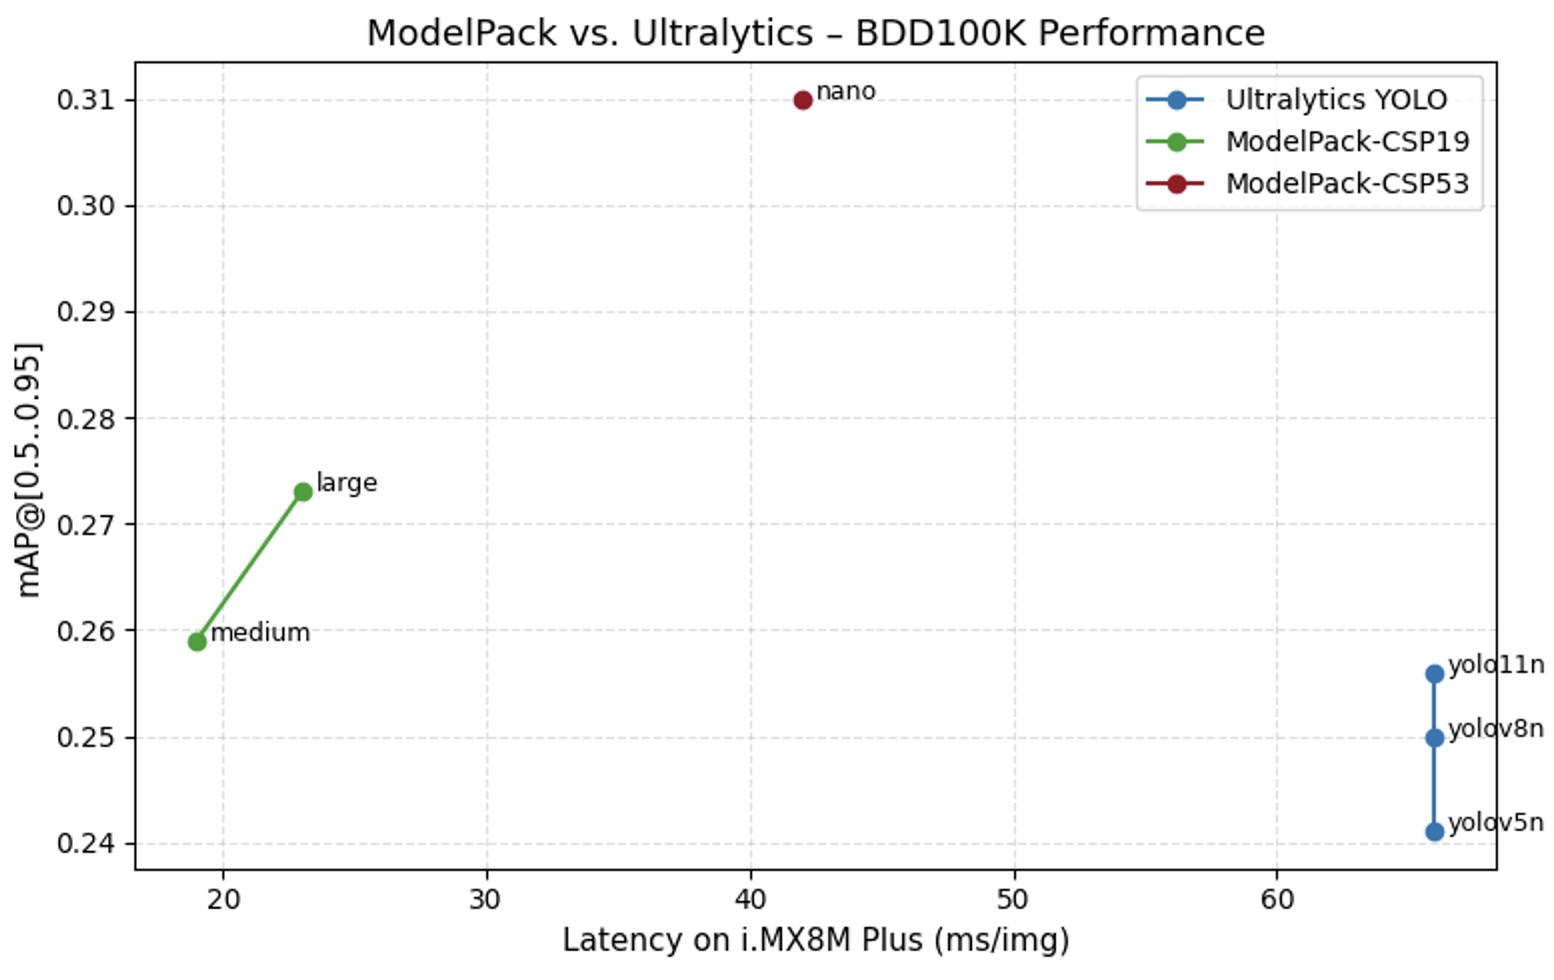
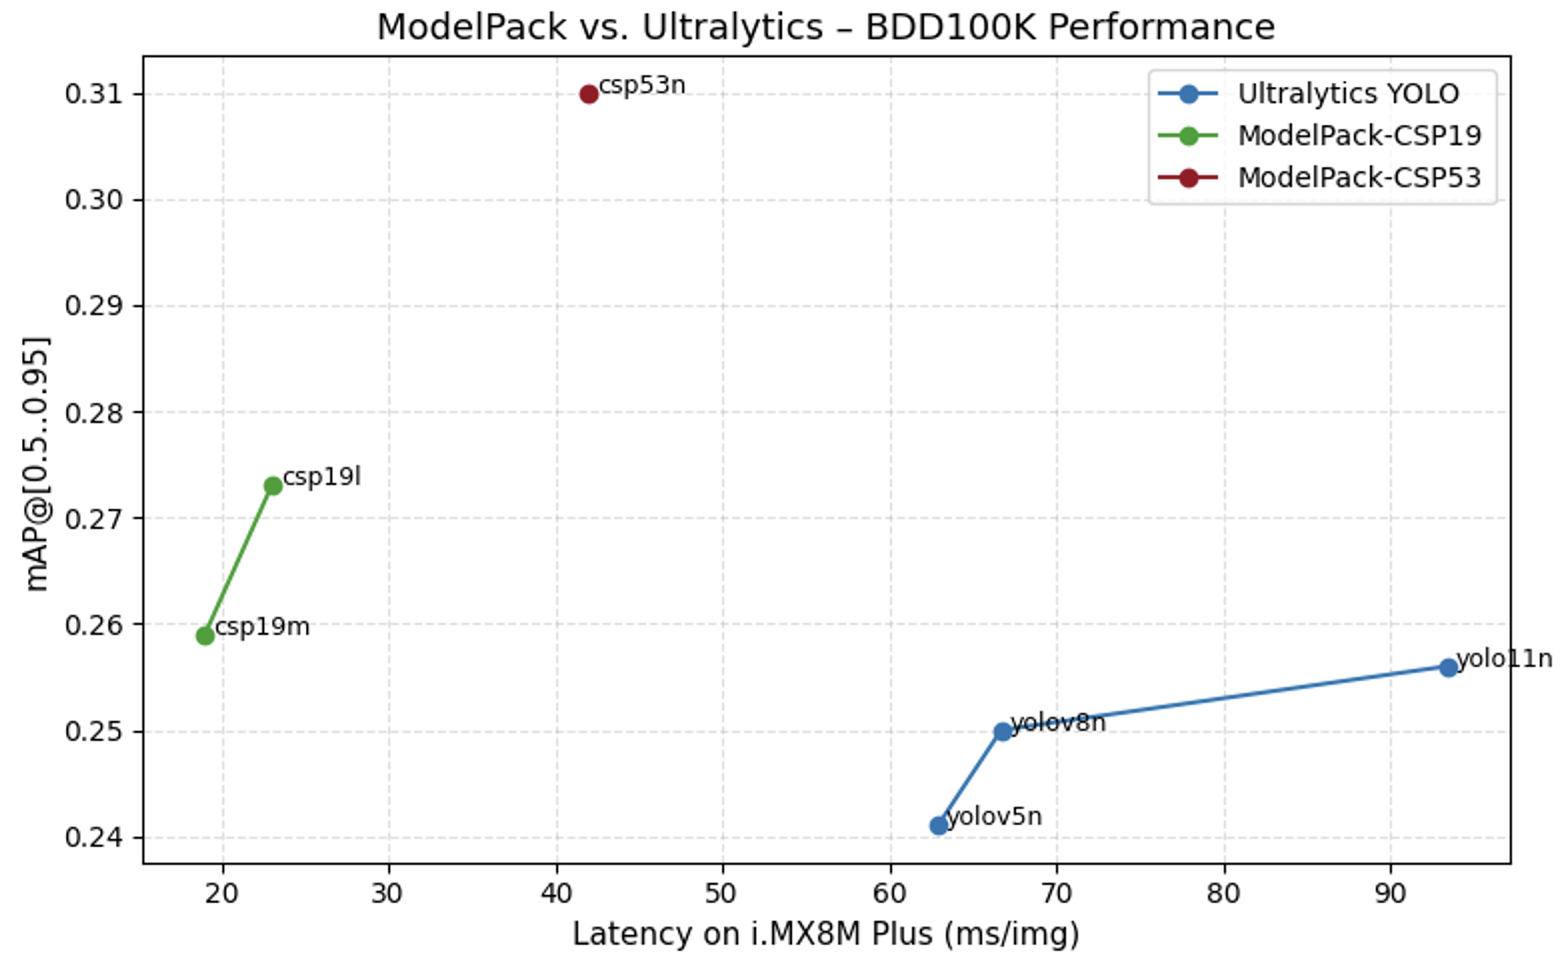
fix timings for evk

Changed region(s): [[0.0, 0.0, 1.0, 0.9917], [0.1236, 0.4649, 0.2471, 0.6818]]

diff --git a/docs/models/modelpack/bdd100k.md b/docs/models/modelpack/bdd100k.md
@@ -96,13 +96,9 @@ Such heterogeneity makes BDD100K more representative of real-world driving than 
 
 ## 3. ModelPack
 
-<div align="justify">
-ModelPack is a modular deep-learning framework developed for edge-optimized computer vision. Built on Keras 3.x and the Functional API, it provides a unified environment for training, evaluating, and deploying object detection, segmentation, and multitask models on embedded devices such as NPUs, Jetson platforms, and EdgeTPUs. The framework is centered around reusable building blocks—Convolutional, Residual, CSP, and Spatial Pyramid Pooling (SPP)—that can be iteratively combined to construct scalable backbones. ModelPack introduces two compound-scaled families, CSPDarknet19 and CSPDarknet53, each exposed in nano, small, medium, and large variants to balance accuracy and computational cost. By integrating standardized preprocessing that includes native non-squared input resolutions, mixed precision, and export flows to ONNX and TFLite, ModelPack enables seamless transition from research to deployment while preserving high accuracy under strict memory and latency constraints.
-</div></br>
+ModelPack is a modular deep-learning framework developed for edge-optimized computer vision. Built on Keras 3.x and the Functional API, it provides a unified environment for training, evaluating, and deploying object detection, segmentation, and multitask models on embedded devices such as NPUs, Jetson platforms, and EdgeTPUs. The framework is centered around reusable building blocks—Convolutional, Residual, CSP, and Spatial Pyramid Pooling (SPP)—that can be iteratively combined to construct scalable backbones. Unlike YOLOv5, which employs a fixed CSPDarknet53 variant augmented with custom detection and neck layers, ModelPack generalizes the YOLOv4 CSP19 and CSP53 backbones using a compound-scaling strategy inspired by MobileNet and EfficientDet. This approach systematically adjusts both the network width (number of filters) and depth (number of blocks) to create balanced nano, small, medium, and large variants, optimized for different resource and performance targets. Additionally, ModelPack extends the original design with native non-squared input support, mixed-precision training, and standardized export flows to ONNX and TFLite, enabling seamless transition from research to real-time deployment while maintaining high accuracy under strict memory and latency constraints.
 
-<div align="justify">
-ModelPack has evolved through multiple real-world deployments, reflecting a continuous process of refinement across diverse industries. Its origins trace back to Arrow Electronics’ “Sam Car” project, where adaptive vision systems were deployed on embedded automotive platforms for assistive driving. The framework was later extended to support The Ocean Cleanup initiative, enabling efficient detection of floating debris under dynamic lighting and motion conditions. ModelPack has also been used by Aigen Robotics to power edge-based perception in autonomous agricultural, combining detection and segmentation for precision weed removal. These cross-domain applications have shaped ModelPack into a robust, production-ready ecosystem—one designed not just for benchmark performance, but for reliability, portability, and energy efficiency in real embedded environments.
-</div>
+ModelPack has evolved through multiple real-world deployments, reflecting a continuous process of refinement across diverse industries. It has been applied in automotive systems, environmental monitoring, and agricultural robotics, where edge-deployed vision models must operate reliably under constrained hardware and diverse environmental conditions. Beyond object detection and semantic segmentation, ModelPack has been extended to support additional perception tasks such as head-pose estimation, debris recognition at high input resolution (4k), and vegetation analysis. These cross-domain applications have shaped ModelPack into a robust, production-ready ecosystem—one designed not just for benchmark performance, but for reliability, portability, and energy efficiency in real embedded environments.
 
 ### 3.1 Training Configuration and Cloud Support
 
@@ -143,12 +139,23 @@ Notably, despite having similar or fewer parameters, ModelPack demonstrated high
 
 To assess deployability on embedded platforms, all trained models were quantized to INT8 and benchmarked on an NXP i.MX8M Plus with its integrated NPU (2.3 TOPS). ModelPack demonstrated a significant efficiency advantage, with inference latencies well below those of comparable YOLO architectures:
 
-| Model                        | Avg. Inference Time (ms) | Relative Speedup          |
-| ---------------------------- | ------------------------ | ------------------------- |
-| modelpack-csp19-medium       | **19 ms**                | **3.5× faster** than YOLO |
-| modelpack-csp19-large        | **23 ms**                | **≈3× faster**            |
-| modelpack-csp53-nano         | **42 ms**                | **≈1.6× faster**          |
-| yolov5n / yolov8n / yolov11n | ~66 ms and beyond        | —                         |
+| Model                        | Avg. Inference Time (ms) | Relative Speedup          | mAP@[0.5] int8  | mAP@[0.5:0.95] int8  |
+| ---------------------------- | ------------------------ | ------------------------- | -------------------- | -------------------- |
+| modelpack-csp19-medium       | **19 ms**                | **3.3× faster**           |      0.409          |   0.199    |
+| modelpack-csp19-large        | **23 ms**                | **≈3× faster**            |      0.412          |   0.201    |
+| modelpack-csp53-nano         | **42 ms**                | **≈1.6× faster**          |      0.464          |   0.236    |
+| yolov5n                      | 62.9 ms                  | baseline                         |       —             |    —       |
+| yolov8n                      | 66.7 ms                  | —                         |       —             |    —       |
+| yolov11n                     | 93.4 ms                  | —                         |       —             |    —       |
+
+
+!!! note "Ultralytics Quantization"
+    We are working on having ultralytics models properly quantized on BDD100k. 
+    Results are going to be published once the quantization issue gets resolved
+
+
+!!! info "Relative Speed"
+    Relative speedup is computed relative to the fastest model: yolov5n
 
 
 These results confirm that ModelPack maintains higher accuracy at substantially lower latency, achieving up to 3.5× faster inference than standard YOLO models on the same hardware. The combination of lightweight backbones, efficient feature aggregation, and quantization-aware design makes ModelPack particularly well suited for real-time edge deployment on constrained processors such as the i.MX8M Plus.

diff --git a/docs/datasets/bdd100k/index.md b/docs/datasets/bdd100k/index.md
@@ -31,9 +31,9 @@ The BDD100K dataset is a large-scale driving video dataset containing 100,000 vi
     | modelpack-csp19-medium-640x640-rgb | 0.418   | 0.201         |  22.2    |
     | modelpack-csp19-large-640x640-rgb | 0.408   | 0.199         |  25.02    |
     | modelpack-csp53-nano-640x640-rgb  | 0.466   | 0.239         |  47.8    |
-    | yolov85-det-640x640-rgb           | -   | -         |  137.5    |
-    | yolov8n-det-640x640-rgb           | -   | -         |  136.5    |
-    | yolov8n-det-640x640-rgb           | -   | -         |  136.5    |
+    | yolov5n-det-640x640-rgb           | -   | -         |  62.9    |
+    | yolov8n-det-640x640-rgb           | -   | -         |  66.7    |
+    | yolo11n-det-640x640-rgb           | -   | -         |  93.4    |
 
     !!! note "BSP Version"
         **i.MX 8M Plus** is flashed with [NXP Yocto BSP](https://www.nxp.com/design/design-center/software/embedded-software/i-mx-software/embedded-linux-for-i-mx-applications-processors:IMXLINUX) 6.12.
